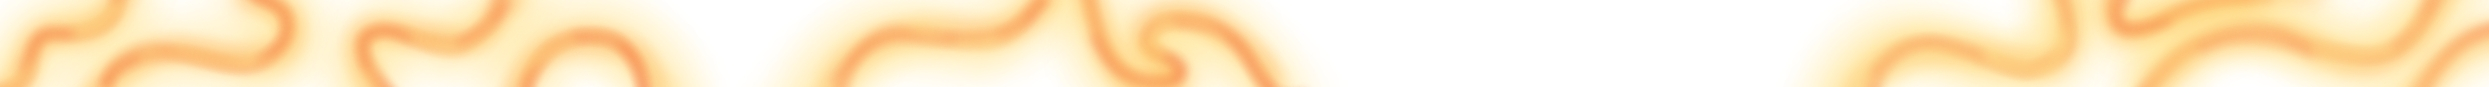
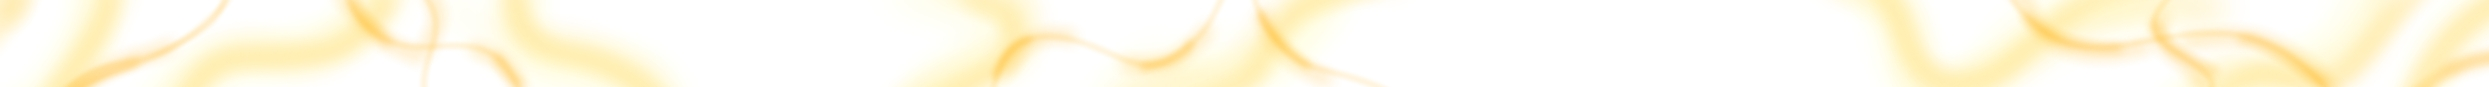
Исправление регистра картинок

diff --git a/css/pages/about.css b/css/pages/about.css
@@ -82,7 +82,7 @@
 }
 
 .value-card {
-  background-image: url('../../images/photo7.JPG');
+  background-image: url('../../images/photo7.jpg');
   background-size: cover;
   background-position: center;
   background-repeat: no-repeat;